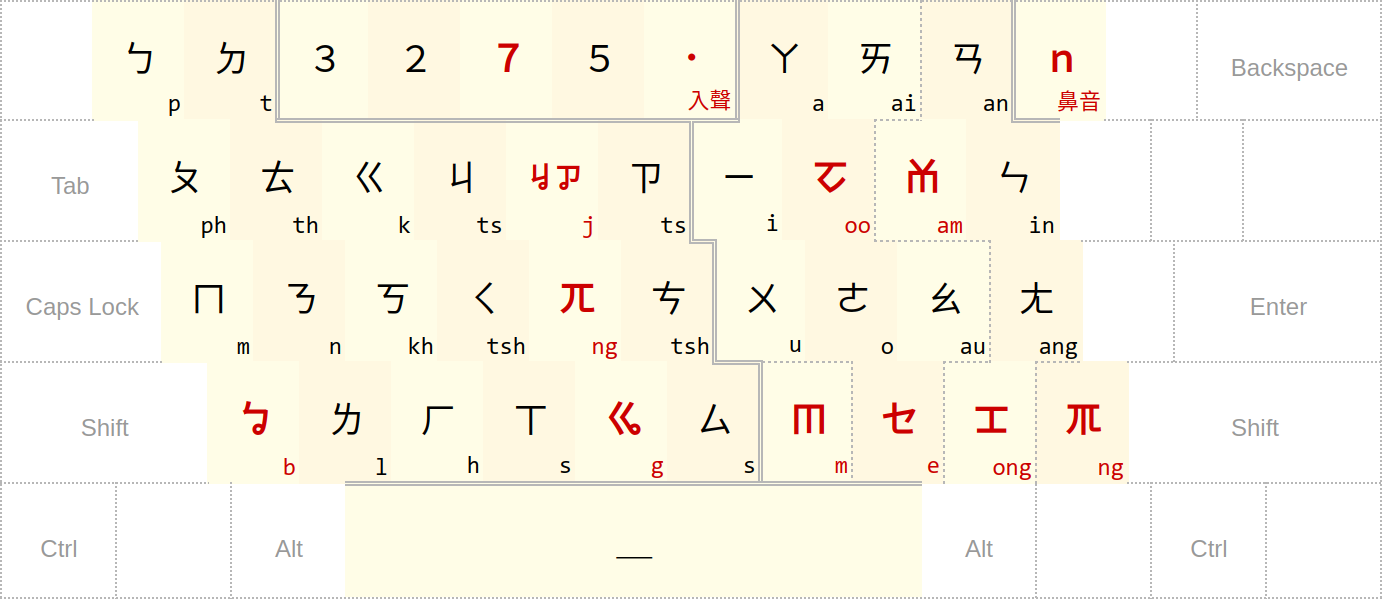
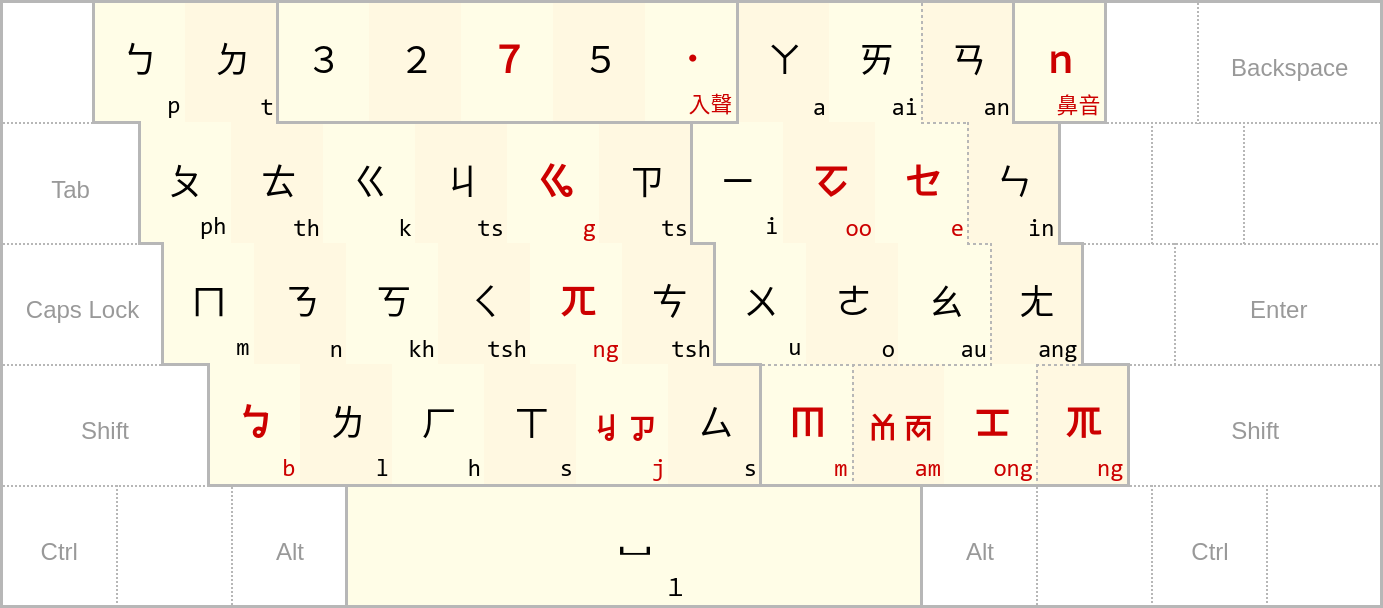
Update. version 0.4

diff --git a/README.md b/README.md
@@ -18,8 +18,8 @@
 
 | 配置差異   | <kbd>Z | <kbd>T | <kbd>G | <kbd>B | <kbd>I | <kbd>, | <kbd>O | <kbd>. | <kbd>M | <kbd>/ | <kbd>- | <kbd>5 | <kbd>7 |
 |:---------:|:-:|:-:|:-:|:-:|:-:|:-:|:-:|:-:|:-:|:-:|:-:|:-:|:-:|
-| **大千式** | ㄈ |  ㄔ  | ㄕ | ㄖ | ㄛ | ㄝ | ㄟ | ㄡ | ㄩ | ㄥ |  ㄦ  |  ㄓ  | 輕聲 |
-| **本方案** | ㆠ | ㆢㆡ | ㄫ | ㆣ | ㆦ | ㆤ | ㆰ | ㆲ | ㆬ | ㆭ | 鼻音 | ７聲 | 入聲 |
+| **大千式** | ㄈ | ㄔ | ㄕ |  ㄖ  | ㄛ | ㄟ |  ㄝ  | ㄡ | ㄩ | ㄥ |  ㄦ  |  ㄓ  | 輕聲 |
+| **本方案** | ㆠ | ㆣ | ㄫ | ㆢㆡ | ㆦ | ㆤ | ㆰㆱ | ㆲ | ㆬ | ㆭ | 鼻音 | ７聲 | 入聲 |
 
 鍵盤配置與方音符號詳細介紹請參考：[方音符號鍵盤](../../wiki/方音符號鍵盤)。
 
@@ -32,7 +32,7 @@
 
 - 方音區分 `ㄐ`、`ㄑ`、`ㄒ`、`ㆢ` 與 `ㄗ`、`ㄘ`、`ㄙ`、`ㆡ`，熟悉台羅、白話字的使用者請多注意
 - 方音區分 `ㄇ`、`ㄋ`、`ㄫ` 與 `ㆠ`、`ㄌ`、`ㆣ`，熟悉閩拼的使用者請多注意
-- 本方案中，`ㆢ` 與 `ㆡ` 合併在同一個鍵位
+- 本方案中，**`ㆢ` 與 `ㆡ` 合併在同一個鍵位**
 
 ### 韻母
 - **純母音**：`ㄧ`、`ㄨ`、`ㄚ`、`ㆦ`、`ㄜ`、`ㆤ`、`ㄞ`、`ㄠ`
@@ -72,7 +72,14 @@
 - 其他功能：[**簡拼輸入**](#簡拼輸入)、**Yu-α 符號表**
 
 ### 鼻化韻母輸入
-鼻化韻母的輸入方式為「韻母 + **鼻音鍵** `ｎ`」：例如以 `ㄚｎ` 來輸入 `ㆩ`
+本方案提供兩種鼻化韻母輸入方式：
+- 韻母 + **鼻音鍵** `ｎ`：例如以 `ㄚｎ` 來輸入 `ㆩ`
+- 韻母最後一個符號重複：例如以 `ㄧㄚㄚ` 來輸入 `ㄧㆩ`
+
+方音區分 `ㄇ`、`ㄋ`、`ㄫ` 與 `ㆠ`、`ㄌ`、`ㆣ`，前者可以視為後者在鼻化韻母或韻化子音前的變體，此時方音不標示鼻化韻母的鼻化屬性。
+本方案允許不輸入變體的 `ㄇ`、`ㄋ`、`ㄫ`，但鼻化韻母要將鼻化屬性標回：
+- 濁塞聲母 + 鼻化韻母：例如以 `ㆠㆩ` 來輸入 `ㄇㄚ`
+- 濁塞聲母 + 韻化子音：例如以 `ㆠㆭ` 來輸入 `ㄇㆭ`
 
 ### 入聲調輸入
 本方案輸入時不區分第４調與第８調，統一使用**入聲鍵** `．`。本方案提供兩種入聲調輸入方式：
@@ -102,8 +109,8 @@
 > 因為技術限制，缺乏跨字詞之間的處理，所以不太能做出細膩的變調
 
 ### 音變輸入
-- 以 `ㄌ` 來輸入 `ㆢ`、`ㆡ`
-- 以 `ㆣ` 來輸入 `ㆢ`
+- 以 `ㄌ`（l）來輸入 `ㆢ`、`ㆡ`（j）
+- 以 `ㆣ`（gi）來輸入 `ㆢ`（ji）
 - 以 `ㆤㄣ`（en）來輸入 `ㄧㄢ`（ien、ian）
 - 以 `ㆤㆵ`（et）、`ㄧㆤㆵ`（iet）來輸入 `ㄧㄚㆵ`（iat）
 
